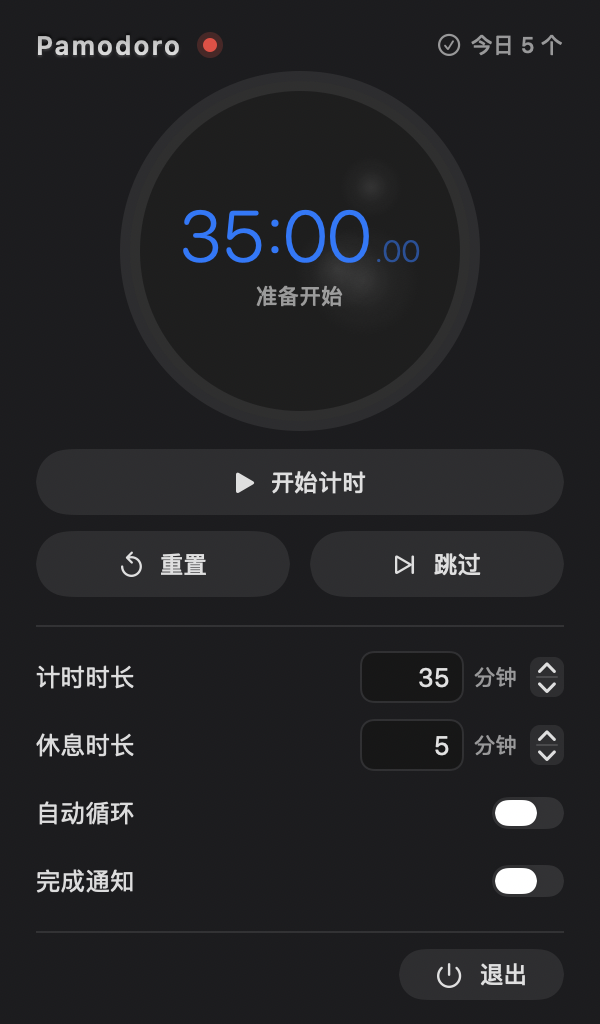
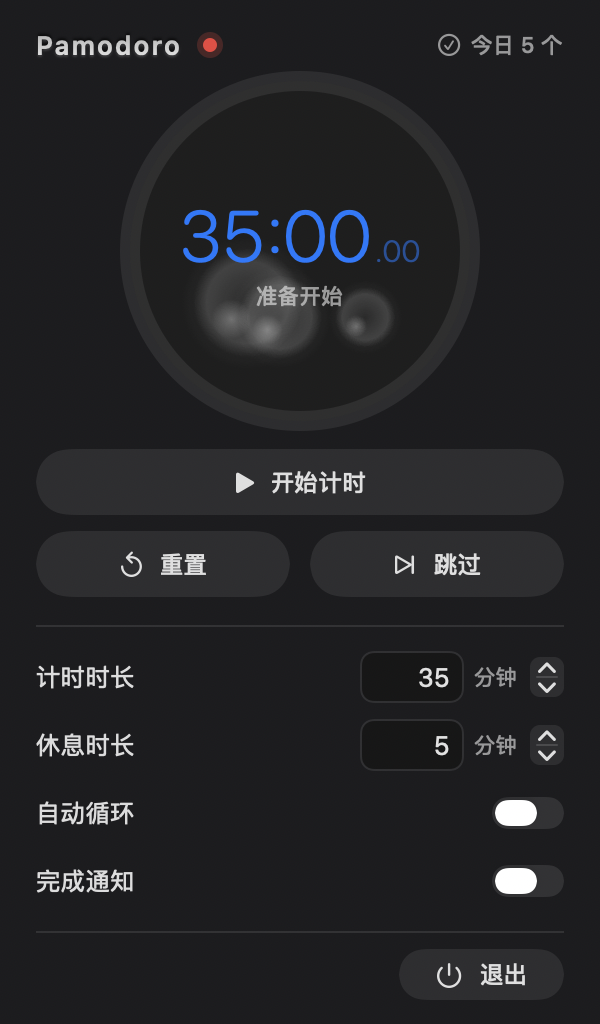
水银液体改为可见的水滴质感并验证动效

Changed region(s): [[0.33, 0.25, 0.54, 0.3438], [0.57, 0.2812, 0.66, 0.3438]]

diff --git a/Sources/DialLiquid.swift b/Sources/DialLiquid.swift
@@ -1,6 +1,6 @@
 import SwiftUI
 
-/// 表盘里的「水银」效果：几团半透明液体在圆盘内缓慢游走，若隐若现。
+/// 表盘里的「水银」效果：几团半透明液体在圆盘内缓慢游走，带高光反光。
 /// 用 TimelineView 驱动，不依赖 @State（swiftc 直连编译时 SwiftUI 宏不可用）。
 struct DialLiquid: View {
 
@@ -12,37 +12,55 @@ struct DialLiquid: View {
             Canvas { context, size in
                 let center = CGPoint(x: size.width / 2, y: size.height / 2)
                 let radius = min(size.width, size.height) / 2
-                let base = colorScheme == .dark
-                    ? Color(white: 0.95)
-                    : Color(red: 0.42, green: 0.47, blue: 0.55)   // 冷灰蓝，像水银
+                let dark = colorScheme == .dark
 
+                let body = dark ? Color.white : Color(red: 0.36, green: 0.44, blue: 0.58)
+                let alpha: Double = dark ? 0.16 : 0.30
+
+                // 液体主体：三团不同速度的慢速漂移
                 for i in 0..<3 {
-                    let phase = Double(i) * 2.4
-                    let speed = 0.13 + Double(i) * 0.05
+                    let phase = Double(i) * 2.1
+                    let speed = 0.42 + Double(i) * 0.13      // 周期约 15s / 11s / 9s
+                    let dx = sin(t * speed + phase) * radius * 0.40
+                    let dy = cos(t * speed * 0.8 + phase * 1.4) * radius * 0.40
+                    let blob = radius * (0.30 + 0.10 * sin(t * 0.6 + phase))
+                    let point = CGPoint(x: center.x + dx, y: center.y + dy)
 
-                    let dx = sin(t * speed + phase) * radius * 0.42
-                    let dy = cos(t * speed * 0.75 + phase * 1.6) * radius * 0.42
-                    let blob = radius * (0.26 + 0.08 * sin(t * 0.21 + phase))
-                    let alpha = 0.050 + 0.030 * sin(t * 0.17 + phase * 1.3)
-
-                    let gradient = Gradient(colors: [
-                        base.opacity(alpha * 2.0),
-                        base.opacity(alpha * 0.6),
-                        base.opacity(0.0),
+                    // 中间偏透、边缘加深，更像一滴有张力的水银
+                    let gradient = Gradient(stops: [
+                        .init(color: body.opacity(alpha * 0.35), location: 0.0),
+                        .init(color: body.opacity(alpha), location: 0.62),
+                        .init(color: body.opacity(alpha * 0.15), location: 0.82),
+                        .init(color: body.opacity(0), location: 1.0),
                     ])
-
-                    let blobCenter = CGPoint(x: center.x + dx, y: center.y + dy)
-                    let rect = CGRect(x: blobCenter.x - blob,
-                                      y: blobCenter.y - blob,
-                                      width: blob * 2, height: blob * 2)
-                    context.fill(Path(ellipseIn: rect),
+                    context.fill(Path(ellipseIn: CGRect(x: point.x - blob,
+                                                        y: point.y - blob,
+                                                        width: blob * 2,
+                                                        height: blob * 2)),
                                  with: .radialGradient(gradient,
-                                                       center: blobCenter,
+                                                       center: point,
                                                        startRadius: 0,
                                                        endRadius: blob))
+
+                    // 高光：偏左上的小亮点，模拟水银反光
+                    let highlightBlob = blob * 0.30
+                    let highlightPoint = CGPoint(x: point.x - blob * 0.25,
+                                                 y: point.y + blob * 0.25)
+                    let highlight = Gradient(colors: [
+                        Color.white.opacity(dark ? 0.28 : 0.85),
+                        Color.white.opacity(0.0),
+                    ])
+                    context.fill(Path(ellipseIn: CGRect(x: highlightPoint.x - highlightBlob,
+                                                        y: highlightPoint.y - highlightBlob,
+                                                        width: highlightBlob * 2,
+                                                        height: highlightBlob * 2)),
+                                 with: .radialGradient(highlight,
+                                                       center: highlightPoint,
+                                                       startRadius: 0,
+                                                       endRadius: highlightBlob))
                 }
             }
-            .blur(radius: 10)
+            .blur(radius: 4.5)
         }
         .clipShape(Circle())
         .allowsHitTesting(false)

diff --git a/Sources/main.swift b/Sources/main.swift
@@ -187,8 +187,19 @@ final class AppDelegate: NSObject, NSApplicationDelegate, NSPopoverDelegate {
                     NSLog("POMODORO_SNAPSHOT popover=%d light=%d dark=%d appAppearance=%@",
                           okPopover ? 1 : 0, okLight ? 1 : 0, okDark ? 1 : 0,
                           NSApp.effectiveAppearance.name.rawValue)
-                    DispatchQueue.main.asyncAfter(deadline: .now() + 0.2) {
-                        NSApp.terminate(nil)
+
+                    if env["POMODORO_SNAPSHOT_TWICE"] != nil, let view = view {
+                        DispatchQueue.main.asyncAfter(deadline: .now() + 1.2) {
+                            self.capture(view, to: prefix + "-b-popover.png", background: canvas)
+                            NSLog("POMODORO_SNAPSHOT second frame written")
+                            DispatchQueue.main.asyncAfter(deadline: .now() + 0.2) {
+                                NSApp.terminate(nil)
+                            }
+                        }
+                    } else {
+                        DispatchQueue.main.asyncAfter(deadline: .now() + 0.2) {
+                            NSApp.terminate(nil)
+                        }
                     }
                 }
             }
